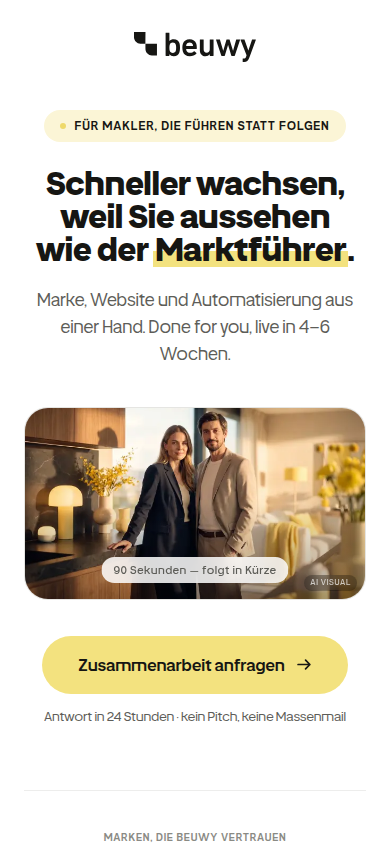
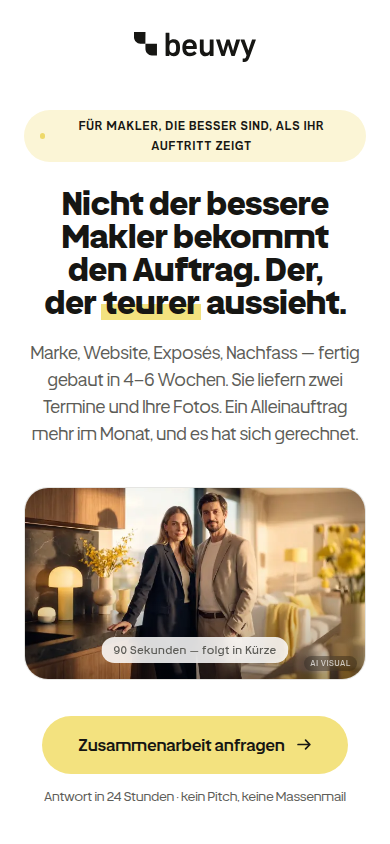
Copy nach 1000-Buyers-Brief: /vsl mit drei Blöcken, Startseiten-Hero und Spiegel neu
Alex' Brief (ein Schmerzpunkt, gegen den Strich, glaubwürdige Zahlen,
gestolpert statt schlauer, nie über-erklären) als docs/redesign/
COPY-BRIEF.md festgehalten und auf die Hauptseiten angewendet.

/vsl: „Nicht der bessere Makler bekommt den Auftrag. Der, der teurer
aussieht." — Sub mit Done-for-you und „ein Alleinauftrag mehr im
Monat"; neue Blöcke „Der eine Grund", „Was Ihnen niemand erzählt"
(Pastellgelb), „Gestolpert" mit RIEGEL-Belegkasten, zweiter CTA.
Startseite: Hero mit Twist in der Subline, Checks auf den einen Nutzen,
Spiegel als Szene, beuwy-Karte ohne große Zahlen, FAQ „Was kostet das?"
mit der Ein-Auftrag-Rechnung. Alle Texte als Studio-Keys.

Gates: tsc 0, Build 125/125, VERIFY: OK, Scanner 0, Screenshots
r10-vsl-*.png (neu), r12-hero.png, r12-spiegel.png.

Claude-Session: https://claude.ai/code/session_01U96pE2C94W2BPSpcCZ3Srn

diff --git a/src/lib/texte/vsl.ts b/src/lib/texte/vsl.ts
@@ -1,30 +1,55 @@
 /**
- * Studio-Texte: /vsl — die schlanke Frontseite (ein Claim, ein CTA,
- * ein Video, echte Kundenlogos). Vorbild: klassische VSL-Landingpage,
- * nichts lenkt ab.
+ * Studio-Texte: /vsl — die schlanke Frontseite (ein Claim, ein Video,
+ * ein Knopf, drei kurze Blöcke, echte Kundenlogos). Copy-Brief seit
+ * 14.09 („1000 Buyers“): EIN Schmerzpunkt (der Eigentümer sieht Ihren
+ * Unterschied nicht), eine gegen den Strich gebürstete Wahrheit (nicht
+ * der bessere Makler bekommt den Auftrag), glaubwürdige Zahlen (ein
+ * Alleinauftrag mehr im Monat, echte Case-Zahlen), „wir sind darüber
+ * gestolpert" statt „wir sind schlauer“, nie über-erklären.
  *
- * REGEL (Alex, 27.08): Jede neue nutzerlesbare Textfläche registriert
- * ihre Texte hier unter src/lib/texte/<bereich>.ts — defaults + labels —
- * und liest sie zur Laufzeit über getContent(). content.ts spreadet
- * alle Bereichsdateien in DEFAULTS/FIELD_LABELS. Präfix mk.vsl.* landet
- * im Studio unter „Startseite · VSL-Video" neben mk.vsl.url.
+ * REGEL (Alex, 27.08): Jede nutzerlesbare Textfläche registriert ihre
+ * Texte hier — defaults + labels — und liest sie über getContent().
+ * Präfix mk.vsl.front_* → Studio-Bereich „Frontseite /vsl“.
  */
 
 export const VSL_FRONT_DEFAULTS: Record<string, string> = {
-  "mk.vsl.front_eyebrow": "Für Makler, die führen statt folgen",
-  "mk.vsl.front_titel": "Schneller wachsen, weil Sie aussehen wie der *Marktführer*.",
+  "mk.vsl.front_eyebrow": "Für Makler, die besser sind, als ihr Auftritt zeigt",
+  "mk.vsl.front_titel": "Nicht der bessere Makler bekommt den Auftrag. Der, der *teurer* aussieht.",
   "mk.vsl.front_sub":
-    "Marke, Website und Automatisierung aus einer Hand. Done for you, live in 4–6 Wochen.",
+    "Marke, Website, Exposés, Nachfass — fertig gebaut in 4–6 Wochen. Sie liefern zwei Termine und Ihre Fotos. Ein Alleinauftrag mehr im Monat, und es hat sich gerechnet.",
   "mk.vsl.front_cta": "Zusammenarbeit anfragen",
   "mk.vsl.front_cta_hinweis": "Antwort in 24 Stunden · kein Pitch, keine Massenmail",
+
+  "mk.vsl.front_grund_eyebrow": "Wenn man es auf den Kern bringt",
+  "mk.vsl.front_grund_titel": "Eigentlich ist es nur dieser *eine* Grund.",
+  "mk.vsl.front_grund_text":
+    "Der Eigentümer vergleicht abends drei Makler am Handy. Er kann nicht sehen, wer besser verkauft. Er sieht nur, wer teurer wirkt — und den ruft er an.",
+  "mk.vsl.front_grund_text2":
+    "Mehr Anzeigen, mehr gekaufte Kontakte, mehr Nachfassen: Alles davon verstärkt nur, was er dort sieht.",
+
+  "mk.vsl.front_story_eyebrow": "Was Ihnen niemand erzählt",
+  "mk.vsl.front_story_titel": "Sie bezahlen dafür, dass Ihr Wettbewerber neben Ihnen steht.",
+  "mk.vsl.front_story_text":
+    "Gleiche Liste, gleiches Layout, gleiche Kontakte — auf den Portalen sind Sie einer von drei. Der Unterschied entsteht erst, wenn der Eigentümer Ihren Namen googelt. Dort entscheidet er, ob Sie der Makler sind oder eine der drei Optionen.",
+
+  "mk.vsl.front_stolper_eyebrow": "Nicht schlauer. Nur früher dran.",
+  "mk.vsl.front_stolper_titel": "Wir haben das nicht erfunden. Wir sind darüber *gestolpert*.",
+  "mk.vsl.front_stolper_text":
+    "17 Jahre haben wir Marken gebaut, für Bosch, Continental, Michelin. Dann bekam ein Maklerbüro denselben Auftritt — und hatte sechs Wochen später neun Abschlüsse. Seitdem bauen wir nur noch das.",
+  "mk.vsl.front_beleg_label": "RIEGEL Immobilien — Zahlen aus dem Case",
+  "mk.vsl.front_beleg":
+    "9~Abschlüsse in sechs Wochen|342.000 €~Abschlussvolumen in sechs Wochen|Platz 21~von über 25.000 Maklern, ImmoScout24-Award",
+
+  "mk.vsl.front_cta2_titel": "Wenn Sie besser verkaufen, als man Ihnen ansieht: *Reden* wir.",
+
   "mk.vsl.front_logos_label": "Marken, die beuwy vertrauen",
   "mk.vsl.front_logos":
     "Vision Group|Königswege|RIEGEL Immobilien|hzo immobilien|invyse|getsafe|PURELEI|Netlution|Instaffo|PreFin|accredia|Finsolute|ImmoAbschreibung|innovakonzept|Rosental|Kopp Consulting|JPF Ingenieurbüro|TREC Careers|BeautyFarm|Snow Aligner|Gooodkid Records|Infocient",
   "mk.vsl.front_fuss": "Marke, Website & Automatisierung für Immobilienmakler",
   "mk.vsl.front_mehr": "Zur ausführlichen Seite",
-  "mk.vsl.front_meta_titel": "beuwy — Marke, Website und Automatisierung für Immobilienmakler",
+  "mk.vsl.front_meta_titel": "Marke, Website & Exposés für Immobilienmakler | beuwy",
   "mk.vsl.front_meta_beschreibung":
-    "Schneller wachsen, weil Sie aussehen wie der Marktführer. Marke, Website und Automatisierung für Immobilienmakler — done for you, live in 4–6 Wochen.",
+    "Nicht der bessere Makler bekommt den Auftrag, sondern der, der teurer aussieht. beuwy baut Ihnen in 4–6 Wochen genau diesen Auftritt: Marke, Website, Exposés, Nachfass.",
   "mk.vsl.platzhalter": "90 Sekunden — folgt in Kürze",
 };
 
@@ -34,6 +59,19 @@ export const VSL_FRONT_LABELS: Record<string, string> = {
   "mk.vsl.front_sub": "Frontseite /vsl · Satz unter der Headline",
   "mk.vsl.front_cta": "Frontseite /vsl · Knopf (führt in den Anfrage-Funnel)",
   "mk.vsl.front_cta_hinweis": "Frontseite /vsl · Hinweis unter dem Knopf",
+  "mk.vsl.front_grund_eyebrow": "Frontseite /vsl · Block „Der eine Grund“ · Eyebrow",
+  "mk.vsl.front_grund_titel": "Frontseite /vsl · Block „Der eine Grund“ · Titel",
+  "mk.vsl.front_grund_text": "Frontseite /vsl · Block „Der eine Grund“ · Absatz 1",
+  "mk.vsl.front_grund_text2": "Frontseite /vsl · Block „Der eine Grund“ · Absatz 2",
+  "mk.vsl.front_story_eyebrow": "Frontseite /vsl · Gelbe Karte · Eyebrow",
+  "mk.vsl.front_story_titel": "Frontseite /vsl · Gelbe Karte · Titel",
+  "mk.vsl.front_story_text": "Frontseite /vsl · Gelbe Karte · Text",
+  "mk.vsl.front_stolper_eyebrow": "Frontseite /vsl · Block „Gestolpert“ · Eyebrow",
+  "mk.vsl.front_stolper_titel": "Frontseite /vsl · Block „Gestolpert“ · Titel",
+  "mk.vsl.front_stolper_text": "Frontseite /vsl · Block „Gestolpert“ · Text",
+  "mk.vsl.front_beleg_label": "Frontseite /vsl · Beleg-Kasten · Zeile über den Zahlen",
+  "mk.vsl.front_beleg": "Frontseite /vsl · Beleg-Kasten · Zahl~Text, mit | getrennt (nur belegte Case-Zahlen!)",
+  "mk.vsl.front_cta2_titel": "Frontseite /vsl · Zweiter Knopf · Überschrift",
   "mk.vsl.front_logos_label": "Frontseite /vsl · Zeile über den Kundenlogos",
   "mk.vsl.front_logos": "Frontseite /vsl · Kundenlogos, mit | getrennt (Freigaben!)",
   "mk.vsl.front_fuss": "Frontseite /vsl · Fußzeile neben dem Logo",

diff --git a/src/app/vsl/page.tsx b/src/app/vsl/page.tsx
@@ -49,6 +49,13 @@ export default async function VslPage() {
     .split("|")
     .map((n) => n.trim())
     .filter(Boolean);
+  const belege = (c["mk.vsl.front_beleg"] ?? "")
+    .split("|")
+    .map((teil) => {
+      const [wert, label] = teil.split("~");
+      return { wert: wert?.trim() ?? "", label: label?.trim() ?? "" };
+    })
+    .filter((b) => b.wert);
 
   return (
     <div className="relative min-h-dvh bg-bg-base">
@@ -70,25 +77,50 @@ export default async function VslPage() {
           <VslSlot format="breit" videoUrl={c["mk.vsl.url"]} platzhalterText={c["mk.vsl.platzhalter"]} />
         </div>
 
-        <div className="mt-9 flex flex-col items-center gap-3 lg:mt-11">
-          <Link
-            href="/anfrage"
-            className="group inline-flex items-center gap-3 rounded-full bg-akzent px-9 py-4 text-[16px] font-semibold text-ink-cream transition-[background-color,transform] duration-[var(--duration-quick)] ease-[var(--ease-smooth-out)] hover:bg-akzent-hover active:scale-[0.98]"
-          >
-            {c["mk.vsl.front_cta"]}
-            <svg
-              width="15"
-              height="15"
-              viewBox="0 0 14 14"
-              fill="none"
-              className="transition-transform duration-[var(--duration-quick)] ease-[var(--ease-smooth-out)] group-hover:translate-x-0.5"
-              aria-hidden
-            >
-              <path d="M1 7h11M8 3l4 4-4 4" stroke="currentColor" strokeWidth="1.6" strokeLinecap="round" strokeLinejoin="round" />
-            </svg>
-          </Link>
-          <p className="t-small">{c["mk.vsl.front_cta_hinweis"]}</p>
+        <CtaKnopf text={c["mk.vsl.front_cta"]} hinweis={c["mk.vsl.front_cta_hinweis"]} className="mt-9 lg:mt-11" />
+      </section>
+
+      {/* Der eine Grund — ein Schmerzpunkt, auf den Kern gebracht */}
+      <section className="mx-auto mt-20 max-w-[680px] px-6 text-center lg:mt-28">
+        <p className="t-label">{c["mk.vsl.front_grund_eyebrow"]}</p>
+        <h2 className="t-h2 mt-4">{rich(c["mk.vsl.front_grund_titel"] ?? "")}</h2>
+        <p className="t-body-lg mt-5">{c["mk.vsl.front_grund_text"]}</p>
+        <p className="t-body-lg mt-4">{c["mk.vsl.front_grund_text2"]}</p>
+      </section>
+
+      {/* Was niemand erzählt — die Wahrheit gegen den Strich, auf Pastellgelb */}
+      <section className="mx-auto mt-16 max-w-[880px] px-6 lg:mt-24">
+        <div className="rounded-[28px] bg-akzent-wash px-7 py-10 text-center sm:px-12 sm:py-14">
+          <p className="t-label !text-ink-cream/70">{c["mk.vsl.front_story_eyebrow"]}</p>
+          <h2 className="t-h2 mx-auto mt-4 max-w-[22ch]">{rich(c["mk.vsl.front_story_titel"] ?? "")}</h2>
+          <p className="t-body-lg mx-auto mt-5 max-w-[56ch] !text-ink-cream">{c["mk.vsl.front_story_text"]}</p>
         </div>
+      </section>
+
+      {/* Gestolpert, nicht schlauer — plus belegte Case-Zahlen */}
+      <section className="mx-auto mt-16 max-w-[680px] px-6 text-center lg:mt-24">
+        <p className="t-label">{c["mk.vsl.front_stolper_eyebrow"]}</p>
+        <h2 className="t-h2 mt-4">{rich(c["mk.vsl.front_stolper_titel"] ?? "")}</h2>
+        <p className="t-body-lg mt-5">{c["mk.vsl.front_stolper_text"]}</p>
+        {belege.length > 0 && (
+          <div className="mt-9 rounded-[24px] border border-line-subtle bg-bg-base px-6 py-7 sm:px-8">
+            <p className="t-label !text-[10.5px]">{c["mk.vsl.front_beleg_label"]}</p>
+            <dl className="mt-5 grid grid-cols-1 gap-6 sm:grid-cols-3">
+              {belege.map((b) => (
+                <div key={b.wert + b.label}>
+                  <dt className="font-display text-[34px] font-bold leading-none tracking-[-0.02em] text-ink-cream tnum">{b.wert}</dt>
+                  <dd className="t-small mx-auto mt-2 max-w-[18ch]">{b.label}</dd>
+                </div>
+              ))}
+            </dl>
+          </div>
+        )}
+      </section>
+
+      {/* Zweiter Knopf — derselbe Weg, ein Satz ans Herz */}
+      <section className="mx-auto mt-16 max-w-[680px] px-6 text-center lg:mt-24">
+        <h2 className="t-h2">{rich(c["mk.vsl.front_cta2_titel"] ?? "")}</h2>
+        <CtaKnopf text={c["mk.vsl.front_cta"]} hinweis={c["mk.vsl.front_cta_hinweis"]} className="mt-8" />
       </section>
 
       {/* Beweis: echte Kundenlogos der bisherigen beuwy.com */}
@@ -120,6 +152,30 @@ export default async function VslPage() {
           </nav>
         </div>
       </footer>
+    </div>
+  );
+}
+
+function CtaKnopf({ text, hinweis, className = "" }: { text: string; hinweis: string; className?: string }) {
+  return (
+    <div className={`flex flex-col items-center gap-3 ${className}`}>
+      <Link
+        href="/anfrage"
+        className="group inline-flex items-center gap-3 rounded-full bg-akzent px-9 py-4 text-[16px] font-semibold text-ink-cream transition-[background-color,transform] duration-[var(--duration-quick)] ease-[var(--ease-smooth-out)] hover:bg-akzent-hover active:scale-[0.98]"
+      >
+        {text}
+        <svg
+          width="15"
+          height="15"
+          viewBox="0 0 14 14"
+          fill="none"
+          className="transition-transform duration-[var(--duration-quick)] ease-[var(--ease-smooth-out)] group-hover:translate-x-0.5"
+          aria-hidden
+        >
+          <path d="M1 7h11M8 3l4 4-4 4" stroke="currentColor" strokeWidth="1.6" strokeLinecap="round" strokeLinejoin="round" />
+        </svg>
+      </Link>
+      <p className="t-small">{hinweis}</p>
     </div>
   );
 }

diff --git a/src/lib/texte/start-bloecke.ts b/src/lib/texte/start-bloecke.ts
@@ -16,12 +16,12 @@ export const START_BLOECKE_DEFAULTS: Record<string, string> = {
   "mk.spiegel.titel": "Sie sind unter den Besten. *Sieht* man Ihnen das an?",
   "mk.spiegel.badge": "Erster Eindruck · Entscheidet",
   "mk.spiegel.p1":
-    "Empfehlungen bringen Ihnen die Anfrage. Doch wer Sie vorher googelt, sieht eine Website, die Ihrem Ruf hinterherhinkt.",
+    "Sie kennen das: Das Gespräch lief gut, der Eigentümer war überzeugt — und den Auftrag bekam ein anderer.",
   "mk.spiegel.p2":
-    "Eigentümer vergleichen drei Makler, bevor sie anrufen. Heimlich, am Handy, abends auf dem Sofa.",
+    "Nicht, weil der besser verkauft. Abends am Handy hat er nur teurer ausgesehen: Website, Exposé, Bewertungen — in dieser Reihenfolge.",
   "mk.spiegel.p3_vor":
-    "Der Zweitplatzierte hat schlechter verkauft als Sie. Seine Website sah nur",
-  "mk.spiegel.p3_stark": "teurer aus",
+    "Eigentlich ist es nur dieser eine Grund. Und er ist in sechs Wochen",
+  "mk.spiegel.p3_stark": "erledigt",
 
   /* ── Abgrenzung Baukasten (StartOben, Block 3) ─────────────────── */
   "mk.abgrenzung.baukasten_label": "Baukasten",
@@ -213,7 +213,7 @@ export const START_BLOECKE_DEFAULTS: Record<string, string> = {
   "mk.faq.titel": "Die *Antworten*, die vorher kommen.",
   "mk.faq.1.frage": "Was kostet das?",
   "mk.faq.1.antwort":
-    "Das hängt vom Umfang ab: Marke allein, oder Marke, Website und Automationen zusammen. Wir klären das im ersten Gespräch, nicht vorher am Telefon mit einer Preisliste. Für die meisten Makler trägt sich die Investition über die Alleinaufträge, die dadurch entstehen.",
+    "Das hängt vom Umfang ab: Marke allein, oder Marke, Website und Nachfass zusammen. Die ehrliche Rechnung: Ein Alleinauftrag mehr im Monat, und das System hat sich getragen. Den Rest klären wir im ersten Gespräch mit Ihren Zahlen, nicht mit einer Preisliste.",
   "mk.faq.2.frage": "Für wen sind beuwy-Systeme geeignet?",
   "mk.faq.2.antwort":
     "Machen Ihnen 10.000 € Marketingkosten im Monat keine Angst? Weil Sie wissen: Daraus werden 100.000 € mehr Einnahmen. Dann ja. Wenn Sie bei diesen Zahlen schlucken, ist ein Baukasten ab 39 € im Monat die ehrlichere Wahl. Beides ist in Ordnung. Es ist nur nicht dasselbe Ziel.",

diff --git a/src/lib/content.ts b/src/lib/content.ts
@@ -221,15 +221,15 @@ export const DEFAULTS: Record<string, string> = {
      Namen im Studio an, bevor Freigaben stehen. */
 
   "mk.hero.eyebrow": "Marke · Website · Automatisierung",
-  "mk.hero.title": "Das System hinter Deutschlands *besten*",
-  "mk.hero.rotation": "Maklern",
+  "mk.hero.title": "Den Alleinauftrag bekommt *nicht* der bessere",
+  "mk.hero.rotation": "Makler",
   "mk.hero.subtitle":
-    "beuwy bringt 17 Jahre Markenarbeit mit. Ihr Auftritt ist in 4–6 Wochen live.",
+    "Sondern der, der teurer aussieht. Wir bauen Ihnen in 4–6 Wochen genau diesen Auftritt: Marke, Website, Exposés, Nachfass. Sie liefern zwei Termine.",
   "mk.hero.cta": "Zusammenarbeit anfragen",
   "mk.hero.cta_hinweis": "Antwort in 24 Stunden",
   "mk.hero.cta2": "Ergebnisse ansehen",
   "mk.hero.checks":
-    "Marke & Design~beantwortet Ihren Preis|Website & Funnel~sortiert Anfragen vor, bevor Sie abheben|Automatisierung~arbeitet, während Sie verkaufen",
+    "Marke & Exposé~wirkt teurer als der Wettbewerb|Website & Funnel~holt den Termin, bevor Sie zurückrufen|Nachfass-Automatik~bleibt dran, während Sie beim Notar sind",
   "mk.hero.badge_label": "Für führende Immobilienmakler",
   "mk.hero.badge_wert": "100+",
   "mk.hero.badge_text": "Markenprojekte seit 2009",

diff --git a/src/lib/texte/start-vergleich.ts b/src/lib/texte/start-vergleich.ts
@@ -28,9 +28,9 @@ export const VERGLEICH_DEFAULTS: Record<string, string> = {
   "mk.vgl.std.fussnote": "Layout ab Werk — so kommt es tausendfach im Postfach an.",
 
   "mk.vgl.bw.label": "Mit beuwy",
-  "mk.vgl.bw.titel": "Arbeitet wie fünf Mitarbeiter. Wirkt wie Handarbeit.",
+  "mk.vgl.bw.titel": "Wirkt wie Handarbeit. Kostet Sie keine Stunde.",
   "mk.vgl.bw.text":
-    "Jeder Eigentümer bekommt Unterlagen, die aussehen, als hätte Ihr Büro einen Tag daran gesessen. Tatsächlich entstehen sie auf Knopfdruck, mit seinen echten Daten — auch beim dreihundertsten Mandat des Jahres. Die Zeitersparnis entspricht einem Team von fünf Mitarbeitern. Ohne eine einzige neue Stelle.",
+    "Jeder Eigentümer bekommt Unterlagen, die aussehen, als hätte Ihr Büro einen Tag daran gesessen. Tatsächlich entstehen sie auf Knopfdruck, mit seinen echten Daten — beim ersten Mandat im Monat wie beim zwanzigsten. Sie verkaufen. Das System schreibt.",
   "mk.vgl.bw.visual_headline": "Verkauft in 12 Tagen. 104 % vom Angebotspreis.",
   "mk.vgl.bw.visual_sub": "Ihr Eigentümer-Report — Seite 1 von 6",
   "mk.vgl.bw.expose_titel": "Exposé auf Knopfdruck",

diff --git a/docs/redesign/gates/R3.md b/docs/redesign/gates/R3.md
@@ -163,3 +163,11 @@
 - [x] R11-G5 Studio-Editor: Bereich „Unterseiten" mit Seitenwahl (Dropdown, Felder- und Änderungszähler, Live-öffnen), Live-Vorschau je Seite, Bereich „Frontseite /vsl", Code-Standardtext bei abweichenden Feldern. EVIDENZ: r11-studio-*.png
 - [x] R11-G6 CRM-Dummy-Daten: src/lib/crm/dummy.ts (14 Kontakte, 22 Leads mit Status/Notizen/Mails, 10 Deals, 12 Aufgaben, 4 Konten + Tickets, 2 pausierte Flows, ~4.000 Einblick-Ereignisse), /intern/einstellungen mit zwei Knöpfen, API /api/intern-einstellungen, SQL supabase/crm-dummy.sql (verteilen/löschen). EVIDENZ: r11-einstellungen.png. OFFEN (Alex): crm-dummy.sql einmal in Supabase ausführen
 - [x] R11-G7 tsc 0, Build 125/125, VERIFY: OK. EVIDENZ: 14.09
+
+## R12 — 1000-Buyers-Copy für /vsl und Startseite (14.09)
+
+- [x] R12-G1 Copy-Brief als Datei (docs/redesign/COPY-BRIEF.md): ein Schmerzpunkt, gegen den Strich, glaubwürdige Zahlen, gestolpert statt schlauer, nie über-erklären. EVIDENZ: Datei
+- [x] R12-G2 /vsl: Headline „Nicht der bessere Makler bekommt den Auftrag. Der, der teurer aussieht.", Sub mit DFY + „ein Alleinauftrag mehr im Monat"; drei neue Blöcke (Der eine Grund · Was Ihnen niemand erzählt auf Pastellgelb · Gestolpert + RIEGEL-Belegkasten) und zweiter CTA. Alle Texte Studio-Keys (Bereich „Frontseite /vsl"). EVIDENZ: r10-vsl-desktop-full.png, r10-vsl-mobil-full.png (neu geschossen 14.09)
+- [x] R12-G3 Startseite: Hero „Den Alleinauftrag bekommt nicht der bessere Makler." + Twist in der Subline, Checks auf den einen Nutzen; Spiegel als Szene („Das Gespräch lief gut … und den Auftrag bekam ein anderer"); beuwy-Karte ohne „fünf Mitarbeiter"/„dreihundertstes Mandat"; FAQ „Was kostet das?" mit der Ein-Auftrag-Rechnung. EVIDENZ: r12-hero.png, r12-spiegel.png
+- [x] R12-G4 tsc 0, Build 125/125, VERIFY: OK, Scanner 0. EVIDENZ: 14.09
+- [ ] R12-OFFEN (Alex): Die „Gestolpert"-Erzählung (Konzernmarken → Maklerbüro → neun Abschlüsse in sechs Wochen) auf Faktentreue prüfen; RIEGEL-Zahlen sind aus dem Case übernommen

diff --git a/docs/redesign/COPY-BRIEF.md b/docs/redesign/COPY-BRIEF.md
@@ -1,0 +1,33 @@
+# Copy-Brief (Alex, 14.09 — aus „1000 Buyers a Day")
+
+Gilt für die Hauptseiten, zuerst `/vsl` (künftige Hauptseite) und `/`.
+Jede neue Headline und jeder Block wird gegen diese Liste geprüft.
+
+1. **So Done-for-you wie möglich.** Der Leser muss nicht an sich glauben,
+   nur an das System. „Sie liefern zwei Termine und Ihre Fotos."
+2. **Ein Schmerzpunkt, ein Nutzen, ein Ergebnis.** Der, der sich am
+   schnellsten lösen lässt (Momentum): Der Eigentümer sieht Ihren
+   Unterschied nicht → Auftritt in 4–6 Wochen. „Eigentlich ist es nur
+   dieser eine Grund …", „Wenn man es auf den Kern bringt …", „Worauf es
+   wirklich hinausläuft …", „Die eigentliche Ursache …".
+3. **Gegen den Strich.** Eine verbreitete Überzeugung kippen: „Nicht der
+   bessere Makler bekommt den Auftrag. Der, der teurer aussieht."
+4. **Glaubwürdige Zahlen.** „Ein Alleinauftrag mehr im Monat" statt
+   „300 Mandate", echte Case-Zahlen (RIEGEL: 9 Abschlüsse in sechs
+   Wochen) statt Hochrechnungen. Menschen überschätzen ein Jahr und
+   unterschätzen ein Jahrzehnt.
+5. **Nicht schlauer, nur gestolpert.** „Wir haben das nicht erfunden. Wir
+   sind darüber gestolpert." Kein Guru-Ton.
+6. **Die größte Frustration wegnehmen.** Den Auftrag an einen Schlechteren
+   verlieren.
+7. **Die Geschichte, die keiner erzählt.** „Sie bezahlen dafür, dass Ihr
+   Wettbewerber neben Ihnen steht."
+8. **Nachfrage jagen, nicht erzeugen.** Makler wollen Alleinaufträge und
+   bessere Preise — das verkaufen, nicht „Branding".
+9. **Große Idee** = emotional aufgeladen + intellektuell interessant +
+   Wunsch, mehr zu erfahren. Herz vor Hirn: Fakten überzeugen nicht,
+   Szenen tun es (abends am Handy, der Zweite bekommt den Auftrag).
+10. **Nie über-erklären.** Kurz nach lang. Ein Satz, der sitzt.
+
+Handwerk: Skills `copy-that-sells` + `deutsche-werbetexte` + `humanizer`.
+Alle Texte sind Studio-Keys — Alex justiert im Studio nach.

diff --git a/docs/redesign/MASTERPLAN.md b/docs/redesign/MASTERPLAN.md
@@ -180,3 +180,7 @@ Sichtbarkeit (Google + KI-Antworten) · Tool-Leads · Funnel-Abschlussquote.
   Bereich „Unterseiten" mit Seitenwahl und Bereich „Frontseite /vsl";
   Scanner-Gate in verify. R11b: CRM-Dummy-Daten mit zwei Knöpfen in
   /intern/einstellungen + SQL-Migration (Alex-Todo).
+- 14.09 · R12: Copy-Brief aus „1000 Buyers a Day" (docs/redesign/COPY-
+  BRIEF.md) auf /vsl und die Startseiten-Kernstrecke angewendet — eine
+  gegen den Strich gebürstete Headline, ein Schmerzpunkt, glaubwürdige
+  Zahlen, drei neue /vsl-Blöcke mit RIEGEL-Beleg. Alles Studio-Keys.
